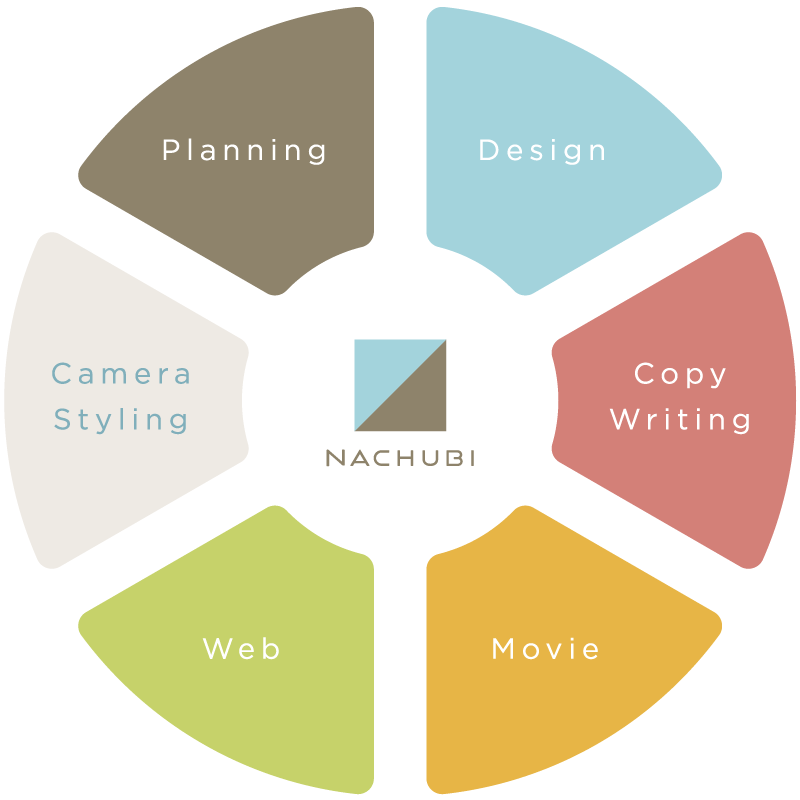
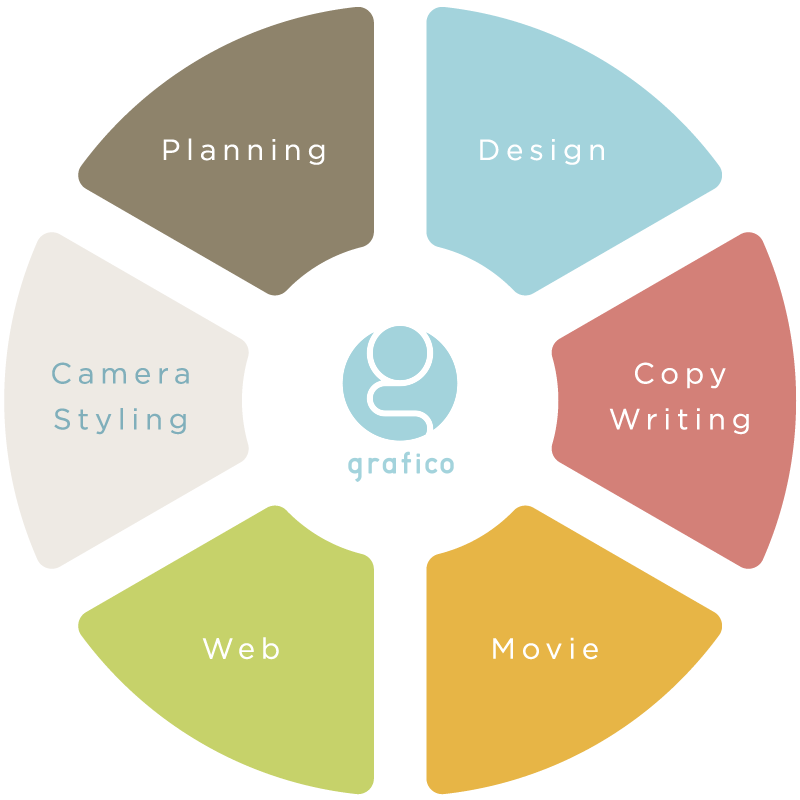
グラフィコに修正

Changed region(s): [[0.4062, 0.4062, 0.5938, 0.5938]]

diff --git a/src/index.html b/src/index.html
@@ -2,17 +2,17 @@
 <html xmlns="http://www.w3.org/1999/xhtml" lang="ja" xml:lang="ja">
 <head>
 <meta http-equiv="Content-Type" content="text/html; charset=utf-8" />
-<title>株式会社ナチュビ｜プロモーションの企画から制作・実施までトータルでご提案</title>
+<title>株式会社グラフィコ｜プロモーションの企画から制作・実施までトータルでご提案</title>
 <meta http-equiv="content-script-type" content="text/javascript" />
 <meta http-equiv="content-style-type" content="text/css" />
 <meta name="viewport" content="width=device-width,initial-scale=1">
 <meta name="description" content="プロモーションの企画（コンセプト開発・ブランディング・年間販促企画・キャンペーン企画・販促ツール企画）から制作・実施までトータルでご提案。">
-<meta name="keywords" content="株式会社ナチュビ,ナチュビ,NACHUBI,コンセプト開発,ブランディング,年間販促企画,販促ツール企画,店頭ツール制作,広告制作,パンフレット制作,WEB制作">
+<meta name="keywords" content="株式会社グラフィコ,グラフィコ,grafico,コンセプト開発,ブランディング,年間販促企画,販促ツール企画,店頭ツール制作,広告制作,パンフレット制作,WEB制作">
 <meta name="robots" content="index, follow" />
 <link rel="stylesheet" href="https://cdn.jsdelivr.net/npm/destyle.css@1.0.15/destyle.css"/>
 
 <link rel="stylesheet" type="text/css" href="https://coco-factory.jp/ugokuweb/wp-content/themes/ugokuweb/data/reset.css">
-<link rel="icon" href="img/n_icon.gif" type="image/gif"/>
+<link rel="icon" href="img/g_icon.gif" type="image/gif"/>
 
 <!-- Google Fonts -->
 <link href="https://fonts.googleapis.com/css?family=Noto+Sans+JP" rel="stylesheet">
@@ -31,7 +31,7 @@
 	    <div class="head_inner">
 	        <div id="mobile-head">
 		        <h1 class="main_logo">
-		            <a href="/" class=""><img src="img/common/n_logo.png" alt="NACHUBI｜株式会社ナチュラル ビズ マーケット"></a>
+		            <a href="/" class=""><img src="img/common/g_logo.png" alt="grafico｜株式会社グラフィコ"></a>
 		        </h1>
 	            <div class="hamburger-menu">
 			        <input type="checkbox" id="menu-btn-check">
@@ -43,7 +43,7 @@
 							<li><a href="/#access">access</a></li>
 							<li><a href="/#info">info</a></li>
 							<li><a href="/#contact">contact</a></li>
-							<li><a href="/" class="menu_logo"><img src="img/common/g_logo_w.png" alt="NACHUBI｜株式会社ナチュラル ビズ マーケット"></a></li>
+							<li><a href="/" class="menu_logo"><img src="img/common/g_logo_w.png" alt="NACHUBI｜株式会社ナチュビ"></a></li>
 			            </ul>
 			        </div>			        
 			    </div>
@@ -59,7 +59,7 @@
 				  	</ul>
 		        </nav>
 		        <h1 class="sub_logo">
-	            	<a href="/" class="slide-bottom show"><img src="img/common/g_logo.png" alt="NACHUBI｜株式会社ナチュラル ビズ マーケット"></a>
+	            	<a href="/" class="slide-bottom show"><img src="img/common/n_logo.png" alt="grafico｜株式会社グラフィコ"></a>
 	        	</h1>
 	        </div>
 	    </div> 
@@ -125,11 +125,11 @@
 						<tbody>
 							<tr>
 								<th>社　名</th>
-								<td>株式会社ナチュビ</td>
+								<td>株式会社グラフィコ</td>
 							</tr>
 							<tr>
 								<th>所在地</th>
-								<td nowrap>〒150-0013 東京都渋谷区恵比寿4-9-5 マンションニュー恵比寿207</td>
+								<td nowrap>〒150-0013 東京都渋谷区恵比寿4-9-5 <br class="onlysp">マンションニュー恵比寿207</td>
 							</tr>
 							<tr>
 								<th>TEL</th>
@@ -229,7 +229,7 @@
 
 
 	<footer>
-		<p class="copy">Copyright (C) 2023 NACHUBI Co.,Ltd. All Right Reserved.</p>
+		<p class="copy">Copyright (C) 2023 grafico Co.,Ltd. All Right Reserved.</p>
 	</footer>
 
 </body>

diff --git a/src/works/index.html b/src/works/index.html
@@ -2,17 +2,17 @@
 <html xmlns="http://www.w3.org/1999/xhtml" lang="ja" xml:lang="ja">
 <head>
 <meta http-equiv="Content-Type" content="text/html; charset=utf-8" />
-<title>株式会社ナチュビ｜プロモーションの企画から制作・実施までトータルでご提案</title>
+<title>株式会社グラフィコ｜プロモーションの企画から制作・実施までトータルでご提案</title>
 <meta http-equiv="content-script-type" content="text/javascript" />
 <meta http-equiv="content-style-type" content="text/css" />
 <meta name="viewport" content="width=device-width,initial-scale=1">
 <meta name="description" content="プロモーションの企画（コンセプト開発・ブランディング・年間販促企画・キャンペーン企画・販促ツール企画）から制作・実施までトータルでご提案。">
-<meta name="keywords" content="株式会社ナチュビ,ナチュビ,NACHUBI,コンセプト開発,ブランディング,年間販促企画,販促ツール企画,店頭ツール制作,広告制作,パンフレット制作,WEB制作">
+<meta name="keywords" content="株式会社グラフィコ,グラフィコ,grafico,コンセプト開発,ブランディング,年間販促企画,販促ツール企画,店頭ツール制作,広告制作,パンフレット制作,WEB制作">
 <meta name="robots" content="index, follow" />
 <link rel="stylesheet" href="https://cdn.jsdelivr.net/npm/destyle.css@1.0.15/destyle.css"/>
 
 <link rel="stylesheet" type="text/css" href="https://coco-factory.jp/ugokuweb/wp-content/themes/ugokuweb/data/reset.css">
-<link rel="icon" href="img/n_icon.gif" type="image/gif"/>
+<link rel="icon" href="img/g_icon.gif" type="image/gif"/>
 
 <!-- Google Fonts -->
 <link href="https://fonts.googleapis.com/css?family=Noto+Sans+JP" rel="stylesheet">
@@ -31,7 +31,7 @@
 	    <div class="head_inner">
 	        <div id="mobile-head">
 		        <h1 class="main_logo">
-		            <a href="/" class=""><img src="../img/common/n_logo.png" alt="NACHUBI｜株式会社ナチュラル ビズ マーケット"></a>
+		            <a href="/" class=""><img src="../img/common/g_logo.png" alt="grafico｜株式会社グラフィコ"></a>
 		        </h1>
 	            <div class="hamburger-menu">
 			        <input type="checkbox" id="menu-btn-check">
@@ -43,7 +43,7 @@
 							<li><a href="/#access">access</a></li>
 							<li><a href="/#info">info</a></li>
 							<li><a href="/#contact">contact</a></li>
-							<li><a href="/" class="menu_logo"><img src="../img/common/g_logo_w.png" alt="NACHUBI｜株式会社ナチュラル ビズ マーケット"></a></li>
+							<li><a href="/" class="menu_logo"><img src="../img/common/n_logo.png" alt="NACHUBI｜株式会社ナチュビ"></a></li>
 			            </ul>
 			        </div>			        
 			    </div>
@@ -59,7 +59,7 @@
 				  	</ul>
 		        </nav>
 		        <h1 class="sub_logo">
-	            	<a href="/" class=""><img src="../img/common/g_logo.png" alt="NACHUBI｜株式会社ナチュラル ビズ マーケット"></a>
+	            	<a href="/" class=""><img src="../img/common/n_logo.png" alt="grafico｜株式会社グラフィコ"></a>
 	        	</h1>
 	        </div>
 	    </div> 
@@ -2236,7 +2236,7 @@
 
 
 	<footer>
-		<p class="copy">Copyright (C) 2023 NACHUBI Co.,Ltd. All Right Reserved.</p>
+		<p class="copy">Copyright (C) 2023 grafico Co.,Ltd. All Right Reserved.</p>
 	</footer>
 
 

diff --git a/src/css/style.css b/src/css/style.css
@@ -77,10 +77,10 @@ h2 {
 　menu
 ーーーーーーーーーーー*/
 header h1.main_logo a img {
-  width: 74px;
+  width: 50px;
 }
 header h1.sub_logo a img {
-  width: 40px;
+  width: 54px;
 }
 #header .head_inner {
   display: flex;
@@ -102,7 +102,7 @@ header h1.sub_logo a img {
 }
 @media screen and (max-width: 850px) {
   header h1.main_logo a img {
-    width: 60px;
+    width: 40px;
   }
   #header .head_inner {
     height: 85px;
